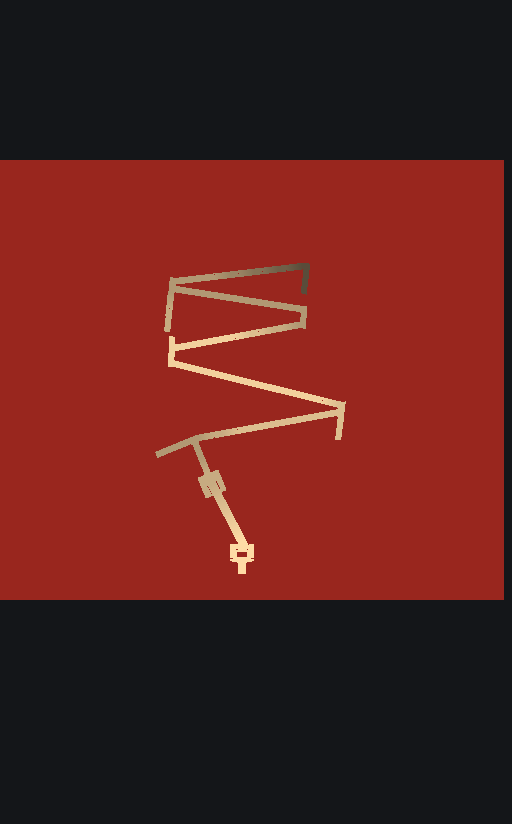
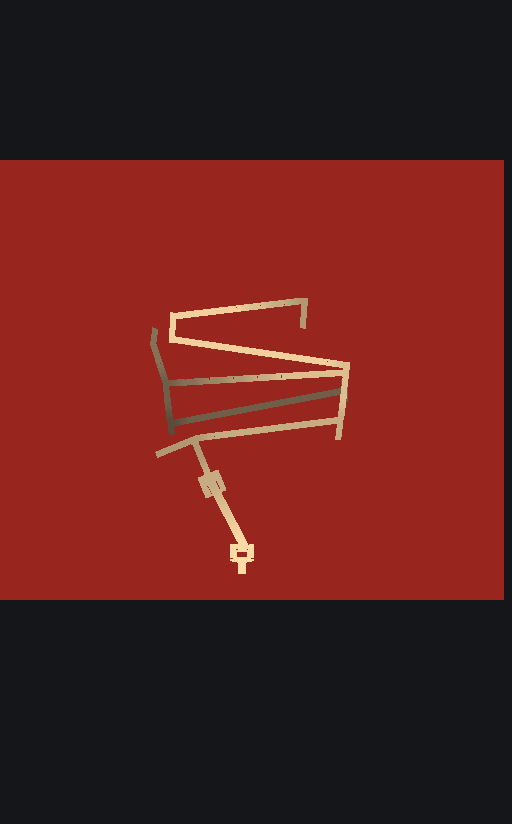
Board flags an out-of-date map and re-traces it
A traced map keeps a fingerprint of the place's built files and doors
(MapTrace.source_stamp); the stratum panel says when it no longer matches
and Re-trace map runs tools/map_trace.gd headless, then imports. The Gorge
and camp maps are re-traced for Grand Study and Gardens.

Tests: map_stale_test.

Changed region(s): [[0.2812, 0.3034, 0.6875, 0.5461]]

diff --git a/ENVIRONMENT_PLAN.md b/ENVIRONMENT_PLAN.md
@@ -24,6 +24,7 @@ stand, what is waiting for you, and what changed lately. The detail is in
 
 | Date | Change |
 |---|---|
+| 2026-11-05 | **The board flags an out-of-date map.** When a Gorge or camp door changes, or either place is rebuilt, the stratum panel says "Map out of date" and why, with a Re-trace map button that does the rest. |
 | 2026-11-05 | **Stack galleries have their own settings on the board.** Each gallery, or each grow rule of galleries, can set its length (short 3-4 bays, medium 5-7, long 6-12 as before), where its abandonment starts, how fast it decays, its blue, its fog and how much decay it shows. Blank fields keep the defaults. |
 | 2026-11-05 | **The Reading Room is generated.** Four versions on the board (masonry or wood steps and deck, each kept or abandoned), an entrance and up to four exits (two side doors, two far shelf bays that open only if a room grows there), and it can be picked in grow rules. Route walks clean on all four over four seeds, also with doors shut and grown off a hall; saves across processes. Frames about 1.6 ms; lights in reach 53 of 50 with stack galleries on all four exits (reported, not changed). The hand-built scene stays until you say. Not committed. |
 | 2026-11-05 | **Phase 14 proposed: the Domicile Quarter (R06).** Approval brief drafted: character, five steps, eight decisions ([brief](docs/environment/phase-14-approval.md)). Agreed in outline; on hold until you have given each area its theme. |
